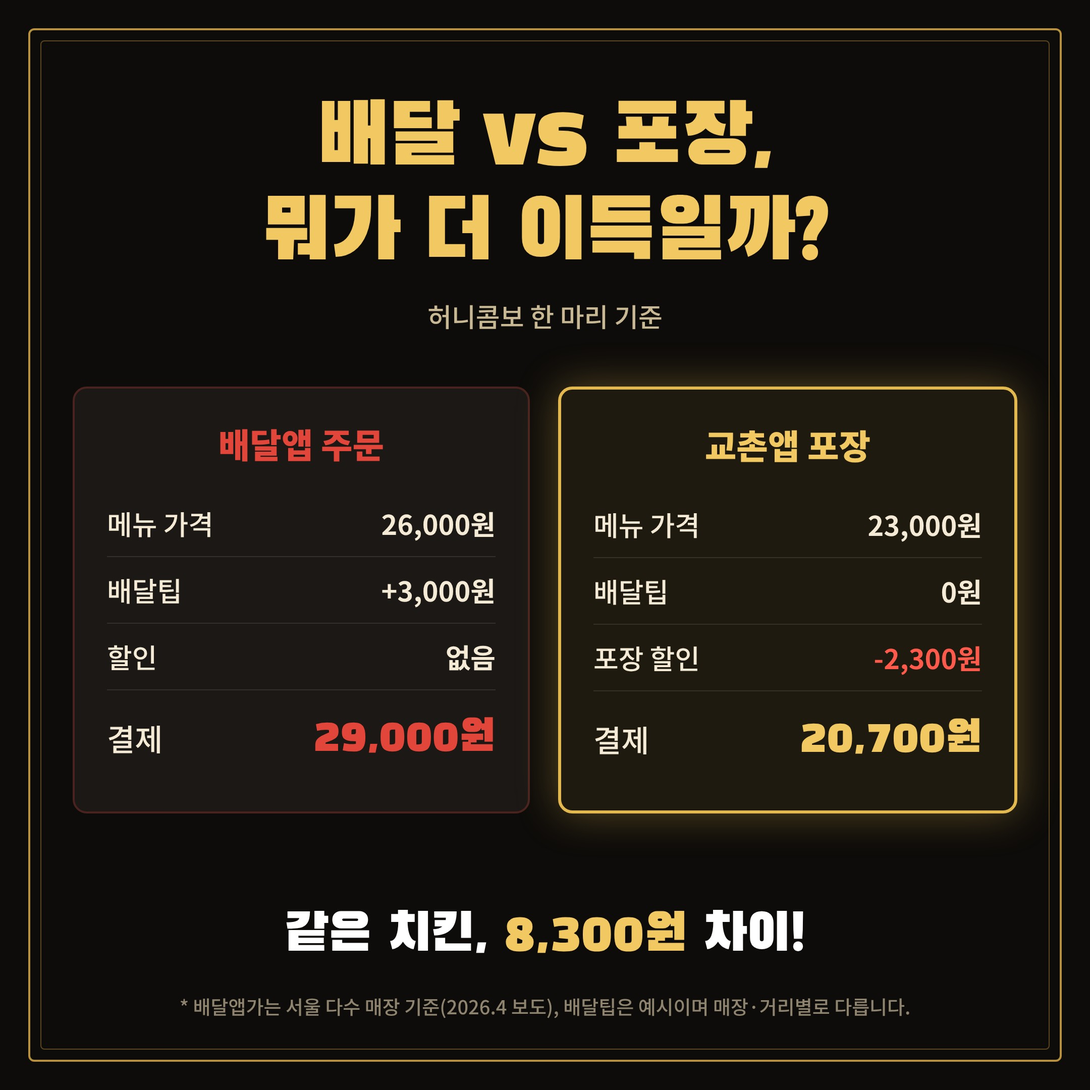
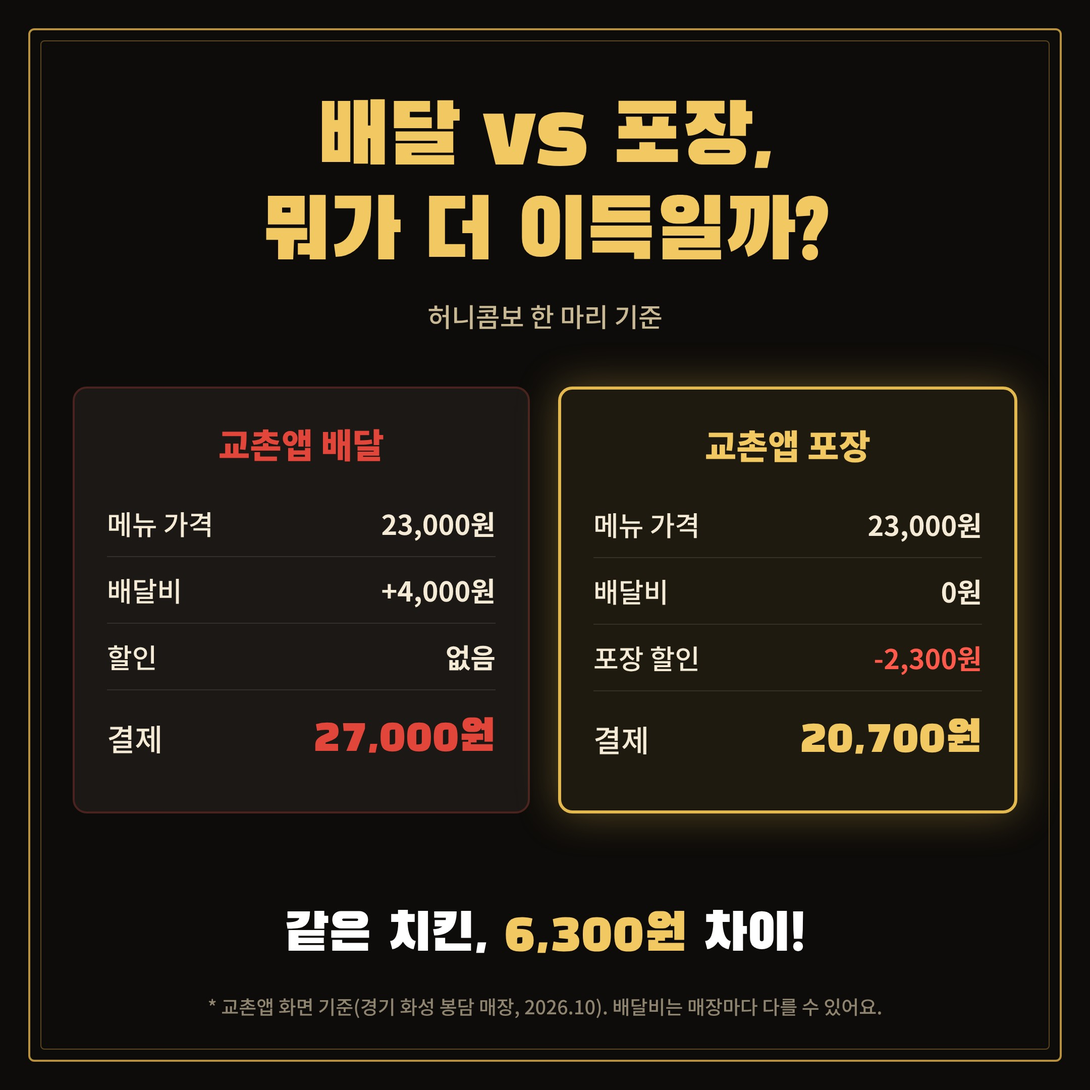
Use own app screenshots for Kyochon blog steps; drop pickup and extra photo sections
Claude-Session: https://claude.ai/code/session_01RbexRDzRrqEm3TgEDpLhhA

diff --git a/blog/kyochon/index.html b/blog/kyochon/index.html
@@ -32,6 +32,7 @@ b,strong{font-weight:700}
 .red{color:var(--red)}
 figure{margin:22px 0}
 figure img{display:block;width:100%;max-width:100%;border-radius:8px}
+figure.shot img{width:min(100%,360px);margin:0 auto;border:1px solid var(--line)}
 figcaption{font-size:13px;color:var(--muted);text-align:center;margin-top:6px}
 .slot{border:2px dashed var(--line);background:var(--slot);border-radius:8px;padding:28px 16px;text-align:center;color:var(--muted);font-size:14px}
 .slot b{display:block;color:var(--fg);font-size:15px;margin-bottom:2px}
@@ -57,7 +58,7 @@ ul.tips li::before{content:"✔";position:absolute;left:0;color:var(--gold);font
 </style>
 
 <div class="toolbar">
-  <span>네이버 블로그 붙여넣기용 미리보기 · 점선 칸은 직접 찍은 사진 자리</span>
+  <span>네이버 블로그 붙여넣기용 미리보기</span>
   <button type="button" id="copyBtn">본문 텍스트 복사</button>
 </div>
 
@@ -67,85 +68,76 @@ ul.tips li::before{content:"✔";position:absolute;left:0;color:var(--gold);font
 
 <figure><img src="images/thumbnail.jpg" alt="포장하면 10% 할인 썸네일"></figure>
 
-<p class="hook">배달앱에선 허니콤보 26,000원,<br>배달팁까지 붙으면 <span class="red">29,000원?</span> 😇</p>
-<p>솔직히 요즘 치킨 시킬 때마다 결제 화면에서 한 번씩 멈칫하게 되잖아요. 치킨값도 오르는데 배달팁까지 붙으면 "이 돈이면…" 소리가 절로 나오더라고요.</p>
-<p>그런데 혹시 알고 계셨나요? <span class="hl">교촌치킨 앱에서 '포장'만 누르면 배달팁은 0원, 거기에 10% 할인 쿠폰이 횟수 제한 없이</span> 적용된다는 사실! 🍗</p>
-<p>같은 허니콤보를 <b>20,700원</b>에 먹을 수 있는 방법, 오늘 직접 앱으로 주문하고 픽업까지 다녀온 후기로 처음부터 끝까지 정리해봤어요.</p>
+<p class="hook">치킨 한 마리 시키는데<br>배달비만 <span class="red">4,000원?</span> 😇</p>
+<p>솔직히 요즘 치킨 시킬 때마다 결제 화면에서 한 번씩 멈칫하게 되잖아요. 치킨값도 만만치 않은데 배달비까지 붙으면 "이 돈이면…" 소리가 절로 나오더라고요.</p>
+<p>그런데 혹시 알고 계셨나요? <span class="hl">교촌치킨 앱에서 '포장'만 누르면 배달비는 0원, 거기에 10% 할인 쿠폰까지</span> 적용된다는 사실! 🍗</p>
+<p>같은 허니콤보를 <b>27,000원 대신 20,700원</b>에 먹을 수 있는 방법, 제가 직접 앱 화면을 하나하나 캡처해서 처음부터 끝까지 정리해봤어요.</p>
 <p><b>👉 3분이면 누구나 따라 할 수 있으니까, 끝까지 읽고 오늘 저녁 치킨값 아껴가세요!</b></p>
-<div class="slot"><b>📸 배달앱 주문 화면 캡처</b>가격·배달팁에 빨간 동그라미</div>
 
 <h2>🤔 배달 vs 포장, 계산해보니 차이가 이 정도?</h2>
-<p>먼저 숫자로 비교해볼게요. 교촌 대표 메뉴 <b>허니콤보</b> 기준이에요.</p>
+<p>먼저 숫자로 비교해볼게요. 교촌 대표 메뉴 <b>허니콤보</b>를 교촌앱에서 주문한다고 했을 때예요.</p>
 <div class="tbl"><table>
-<thead><tr><th>구분</th><th>배달앱 주문</th><th>교촌앱 포장</th></tr></thead>
+<thead><tr><th>구분</th><th>교촌앱 배달</th><th>교촌앱 포장</th></tr></thead>
 <tbody>
-<tr><td>메뉴 가격</td><td class="num">26,000원</td><td class="num">23,000원</td></tr>
-<tr><td>배달팁</td><td class="num">3,000원 (예시)</td><td class="num"><b>0원</b></td></tr>
+<tr><td>메뉴 가격</td><td class="num">23,000원</td><td class="num">23,000원</td></tr>
+<tr><td>배달비</td><td class="num">4,000원</td><td class="num"><b>0원</b></td></tr>
 <tr><td>포장 할인</td><td class="num">없음</td><td class="num red"><b>-2,300원</b></td></tr>
-<tr class="total"><td>최종 결제</td><td class="num">29,000원</td><td class="num red">20,700원</td></tr>
+<tr class="total"><td>최종 결제</td><td class="num">27,000원</td><td class="num red">20,700원</td></tr>
 </tbody></table></div>
-<p>같은 치킨인데 <span class="hl">무려 8,300원 차이</span>! 😳 서울 지역 상당수 매장은 배달앱 가격이 26,000원이지만, 매장·교촌앱 포장 가격은 권장가 23,000원 그대로거든요. 여기에 10% 할인까지 더해지니 차이가 커질 수밖에요. 한 달에 네 번만 포장으로 바꿔도 <b>33,200원</b>이 그대로 남는 셈이에요.</p>
-<p class="note">※ 배달팁은 매장·거리마다 달라서 3,000원으로 예를 들었어요. 배달앱 가격도 지역·매장마다 다를 수 있어요.</p>
-<figure><img src="images/compare.jpg" alt="배달 vs 포장 비교표: 29,000원 대 20,700원"></figure>
+<p>같은 치킨인데 <span class="hl">무려 6,300원 차이</span>! 😳 배달비 4,000원이 빠지고, 10% 할인 2,300원이 더 빠지니까 차이가 꽤 크죠. 한 달에 네 번만 포장으로 바꿔도 <b>25,200원</b>이 그대로 남는 셈이에요. 치킨 한 마리 값이 더 생기는 거죠!</p>
+<p class="note">※ 제가 사는 동네(경기 화성 봉담) 매장의 교촌앱 화면 기준이에요. 배달비는 매장마다 다를 수 있어요.</p>
+<figure><img src="images/compare.jpg" alt="배달 vs 포장 비교표: 27,000원 대 20,700원"></figure>
 
 <h2>📱 할인 받는 법, 진짜 이게 끝이에요</h2>
-<p>"앱 주문 복잡하지 않아?" 하실 수 있는데, 전혀요! 캡처 화면에 순서대로 표시해뒀으니 그대로 따라 하시면 됩니다.</p>
+<p>"앱 주문 복잡하지 않아?" 하실 수 있는데, 전혀요! 제가 직접 캡처한 화면에 눌러야 할 곳을 빨간 박스로 표시해뒀으니 그대로 따라 하시면 됩니다.</p>
 
-<h3>STEP 1. 교촌치킨 앱 설치 &amp; 로그인</h3>
-<p>앱스토어나 플레이스토어에서 <b>'교촌치킨'</b> 검색 후 설치하고 회원가입해주세요. 포장 10% 할인은 <b>앱 회원 전용 혜택</b>이라 로그인이 꼭 필요해요.</p>
-<div class="slot"><b>📸 앱 메인 화면</b></div>
+<h3>STEP 1. 교촌치킨 앱 실행 → 하단 '주문' 버튼</h3>
+<p>교촌치킨 앱을 설치하고 로그인한 다음, 화면 아래 가운데 있는 <b>육각형 '주문' 버튼</b>을 눌러주세요. 포장 10% 할인은 <b>앱 회원 혜택</b>이라 로그인이 꼭 필요해요.</p>
+<figure class="shot"><img src="images/steps/step1_app_home.jpg" alt="교촌앱 홈 화면, 하단 주문 버튼 강조"></figure>
 
-<h3>STEP 2. 주문 방식에서 '포장' 선택 ⭐</h3>
-<p>여기가 제일 중요해요! 메인 화면에서 <span class="hl">'배달'이 아니라 '포장'</span>을 꼭 눌러주세요.</p>
-<div class="slot"><b>📸 포장 버튼</b>빨간 박스로 강조</div>
+<h3>STEP 2. '배달' 말고 '포장' 선택 ⭐</h3>
+<p>여기가 제일 중요해요! 주문 버튼을 누르면 '배달'과 '포장'이 뜨는데, <span class="hl">꼭 '포장'을 눌러주세요.</span></p>
+<figure class="shot"><img src="images/steps/step2_pickup.jpg" alt="배달과 포장 선택 화면, 포장 버튼 강조"></figure>
 
 <h3>STEP 3. 픽업할 매장 선택</h3>
-<p>현재 위치 기준으로 가까운 매장이 떠요. 퇴근길 동선에 있는 매장을 고르면 더 편해요.</p>
-<div class="slot"><b>📸 매장 선택 화면</b></div>
+<p>내 위치 기준으로 가까운 매장이 떠요. 여기서 보면 <b>배달비 4,000원</b>이라고 적혀 있죠? 포장을 고르면 이 금액이 그대로 0원이 돼요. 퇴근길 동선에 있는 매장의 '포장'을 눌러주세요.</p>
+<figure class="shot"><img src="images/steps/step3_store.jpg" alt="주변 매장 찾기 화면, 포장 버튼 강조"></figure>
 
 <h3>STEP 4. 메뉴 담기</h3>
-<p>고민할 것도 없이 교촌의 근본, <b>허니콤보</b>로 골랐어요. 😋</p>
-<div class="slot"><b>📸 메뉴 선택 화면</b></div>
+<p>고민할 것도 없이 교촌의 근본, <b>허니콤보</b>로 골랐어요. 😋 가격은 23,000원! 수량 확인하고 '장바구니 담기'를 눌러주세요.</p>
+<figure class="shot"><img src="images/steps/step4_menu.jpg" alt="허니콤보 메뉴 상세, 23,000원"></figure>
 
-<h3>STEP 5. 결제 화면에서 10% 할인 쿠폰 적용 ✅</h3>
-<p>포장 주문을 하면 <b>포장 10% 할인 쿠폰이 자동으로 발급</b>돼요. 결제 화면에서 쿠폰만 적용하면 끝! 23,000원에서 <b>2,300원</b>이 빠져서 최종 <span class="hl">20,700원</span>에 결제했어요. 쿠폰은 주문 1건당 1장씩, 횟수 제한 없이 포장할 때마다 쓸 수 있어요.</p>
-<div class="slot"><b>📸 결제 화면</b>할인 금액 확대 + 빨간 박스</div>
+<h3>STEP 5. 결제할 때 '포장 10% 할인' 쿠폰 적용 ✅</h3>
+<p>결제 화면에서 쿠폰을 누르면 <b>'포장 10% 할인'</b> 쿠폰이 보여요. 체크하고 '선택적용'만 누르면 끝! 허니콤보 23,000원에서 <b>2,300원</b>이 빠져서 <span class="hl">20,700원</span>이 돼요.</p>
+<figure class="shot"><img src="images/steps/step5_coupon.jpg" alt="쿠폰 선택 화면, 포장 10% 할인 쿠폰 강조"></figure>
+<p class="note">※ 쿠폰 조건: 16,000원 이상 주문 시 사용 가능, 2026년 12월 31일까지. 단품 메뉴에만 적용되고 세트 메뉴는 제외돼요.</p>
 
-<h3>STEP 6. 픽업 시간 확인하고 출발!</h3>
-<p>주문 완료 후 예상 조리 시간이 안내돼요. 저는 약 [○○]분 뒤에 맞춰서 출발했어요.</p>
-<div class="slot"><b>📸 주문 완료 화면</b></div>
-
-<h2>🏃 매장 픽업 후기</h2>
-<p>[○○점]에 도착하니 주문 번호만 말하면 바로 받을 수 있게 준비돼 있었어요. 기다림 없이 <b>"교촌 포장이요~"</b> 한마디로 끝!</p>
-<div class="slot"><b>📸 매장 외관 / 픽업대</b></div>
-
-<h2>🍗 갓 튀긴 치킨은 차원이 다릅니다</h2>
-<p>집에 오자마자 바로 오픈! 박스를 여는 순간 달콤한 허니 향이 확 퍼지는데… 이게 바로 포장의 진짜 매력이더라고요.</p>
+<h2>🍗 교촌은 역시 허니콤보</h2>
 <figure><img src="images/chicken_web.jpg" alt="박스에 가득 담긴 교촌 허니콤보"><figcaption>박스 가득 허니콤보 🍯</figcaption></figure>
-<p><b>허니콤보</b>는 겉은 바삭하고, 달콤짭짤한 허니소스가 한 겹 한 겹 배어 있어서 한 입 베어 물면 <span class="hl">'바삭' 소리부터 다르게</span> 느껴졌어요. 배달로 받을 때보다 눅눅함이 훨씬 덜해서 마지막 한 조각까지 바삭함이 유지됐어요. 단짠 조합이라 콜라 한 모금이면 무한 루프… 🔁</p>
-<div class="slot"><b>📸 단면 / 소스 클로즈업</b></div>
-<div class="slot" style="margin-top:12px"><b>📸 먹는 장면 or 한 상 차림</b></div>
+<p>박스를 여는 순간 달콤한 허니 향이 확 퍼지는데, 이 맛에 교촌 먹는 거죠. <b>허니콤보</b>는 쫄깃한 날개와 담백한 다리 조합이라 부위 고민할 필요가 없어요.</p>
+<p>겉은 바삭하고, 달콤짭짤한 허니소스가 얇게 코팅돼 있어서 한 입 베어 물면 <span class="hl">'바삭' 소리부터 달라요.</span> 소스가 과하지 않아서 끝까지 물리지 않고, 단짠 조합이라 콜라 한 모금이면 무한 루프… 🔁 포장해서 갓 튀긴 걸 바로 먹으면 이 바삭함이 훨씬 오래가요.</p>
 
 <h2>🎬 글로 보기 귀찮다면? 30초 영상으로 끝내드림 👇</h2>
-<p>주문부터 픽업, 먹방까지 숏츠로도 담아봤어요! 영상으로 보면 바삭함이 더 실감나실 거예요 😆</p>
+<p>할인 받는 법부터 허니콤보까지 숏츠로도 담아봤어요! 영상으로 보면 바삭함이 더 실감나실 거예요 😆</p>
 <div class="slot"><b>🎬 인스타그램 릴스 링크 삽입</b></div>
 
 <h2>💡 알아두면 더 이득인 꿀팁</h2>
 <ul class="tips">
 <li><b>피크 시간(저녁 6~8시)엔 미리 주문!</b> 도착 시간에 맞춰 주문하면 대기 없이 바로 픽업 가능해요.</li>
 <li><b>퇴근길 동선에 있는 매장을 즐겨찾기</b>해두면 다음 주문이 훨씬 빨라져요.</li>
-<li><b>쿠폰은 횟수 제한 없음!</b> 포장할 때마다 자동 발급되니 결제 전에 적용만 잊지 마세요.</li>
+<li><b>16,000원 이상 단품 주문</b>이어야 쿠폰이 적용돼요. 세트 메뉴는 제외라 단품으로 담는 게 이득!</li>
+<li><b>결제 전 쿠폰 적용 필수!</b> 자동으로 빠지는 게 아니라 결제할 때 직접 선택해야 해요.</li>
 </ul>
 
 <h2>✍ 총평</h2>
 <div class="tbl"><table>
 <tbody>
-<tr><td>가격 혜택</td><td>⭐⭐⭐⭐⭐ 배달팁 0원 + 10% 할인</td></tr>
+<tr><td>가격 혜택</td><td>⭐⭐⭐⭐⭐ 배달비 0원 + 10% 할인</td></tr>
 <tr><td>주문 편의성</td><td>⭐⭐⭐⭐⭐ 3분이면 끝</td></tr>
 <tr><td>맛</td><td>⭐⭐⭐⭐⭐ 갓 튀긴 바삭함 그대로</td></tr>
 <tr><td>재주문 의사</td><td>💯 무조건</td></tr>
 </tbody></table></div>
-<p>배달팁 아끼고, 할인 받고, 제일 맛있을 때 바로 먹을 수 있는 방법. 한 번 해보니까 왜 이제야 알았나 싶더라고요.</p>
+<p>배달비 아끼고, 할인 받고, 제일 맛있을 때 바로 먹을 수 있는 방법. 한 번 해보니까 왜 이제야 알았나 싶더라고요.</p>
 <p class="cta">오늘 저녁 치킨은, 배달 말고 포장으로 10% 아끼세요! 🍗</p>
 
 <section class="promo">
@@ -166,7 +158,7 @@ ul.tips li::before{content:"✔";position:absolute;left:0;color:var(--gold);font
 <p class="tags">#교촌치킨 #교촌포장할인 #교촌앱 #교촌치킨할인 #치킨포장할인 #치킨할인 #포장주문 #허니콤보 #교촌K스피커스 #K스피커스13기 #교촌서포터즈</p>
 </article>
 
-<p class="src toolbar">금액 출처: <a href="https://zdnet.co.kr/view/?no=20260203112434">교촌 포장 10% 할인(ZDNet, 2026.2)</a> · <a href="https://v.daum.net/v/20260409165437122">허니콤보 가격(2026.4)</a> · <a href="https://zdnet.co.kr/view/?no=20261020174452">K-스피커스 13기(ZDNet, 2026.10)</a></p>
+<p class="src toolbar">출처: 교촌앱 화면(2026.10) · <a href="https://zdnet.co.kr/view/?no=20260203112434">교촌 포장 10% 할인(ZDNet, 2026.2)</a> · <a href="https://zdnet.co.kr/view/?no=20261020174452">K-스피커스 13기(ZDNet, 2026.10)</a></p>
 
 <script>
 document.getElementById('copyBtn').addEventListener('click', async (e) => {

diff --git a/blog/kyochon/src/compare.html b/blog/kyochon/src/compare.html
@@ -27,18 +27,18 @@ h1{font-family:'Black Han Sans',sans-serif;font-weight:400;font-size:84px;line-h
 <h1>배달 vs 포장,<br>뭐가 더 이득일까?</h1>
 <p class="sub">허니콤보 한 마리 기준</p>
 <div class="cols">
- <div class="col d"><h2>배달앱 주문</h2>
-  <div class="row"><span>메뉴 가격</span><span>26,000원</span></div>
-  <div class="row"><span>배달팁</span><span>+3,000원</span></div>
+ <div class="col d"><h2>교촌앱 배달</h2>
+  <div class="row"><span>메뉴 가격</span><span>23,000원</span></div>
+  <div class="row"><span>배달비</span><span>+4,000원</span></div>
   <div class="row"><span>할인</span><span>없음</span></div>
-  <div class="row tot"><span>결제</span><span>29,000원</span></div>
+  <div class="row tot"><span>결제</span><span>27,000원</span></div>
  </div>
  <div class="col p"><h2>교촌앱 포장</h2>
   <div class="row"><span>메뉴 가격</span><span>23,000원</span></div>
-  <div class="row"><span>배달팁</span><span>0원</span></div>
+  <div class="row"><span>배달비</span><span>0원</span></div>
   <div class="row"><span>포장 할인</span><span class="hl">-2,300원</span></div>
   <div class="row tot"><span>결제</span><span>20,700원</span></div>
  </div>
 </div>
-<div class="bottom">같은 치킨, <b>8,300원</b> 차이!</div>
-<p class="note">* 배달앱가는 서울 다수 매장 기준(2026.4 보도), 배달팁은 예시이며 매장·거리별로 다릅니다.</p>
+<div class="bottom">같은 치킨, <b>6,300원</b> 차이!</div>
+<p class="note">* 교촌앱 화면 기준(경기 화성 봉담 매장, 2026.10). 배달비는 매장마다 다를 수 있어요.</p>

diff --git a/blog/kyochon/src/annotate.py b/blog/kyochon/src/annotate.py
@@ -1,0 +1,19 @@
+# 앱 캡처에 빨간 강조 박스를 그려 블로그용 STEP 이미지로 저장
+import sys
+from PIL import Image, ImageDraw
+SRC = sys.argv[1]
+RED = (226, 35, 26)
+boxes = {  # 파일번호: (출력이름, [(x1,y1,x2,y2), ...])
+    '2': ('step1_app_home.jpg', [(440, 1730, 593, 1900)]),
+    '3': ('step2_pickup.jpg',   [(538, 1540, 727, 1720)]),
+    '4': ('step3_store.jpg',    [(278, 638, 455, 718)]),
+    '6': ('step4_menu.jpg',     [(30, 1040, 830, 1255), (40, 1755, 935, 1875)]),
+    '5': ('step5_coupon.jpg',   [(42, 465, 980, 825)]),
+}
+for n, (out, rects) in boxes.items():
+    im = Image.open(f'{SRC}/{n}.jpg').convert('RGB')
+    d = ImageDraw.Draw(im)
+    for r in rects:
+        d.rounded_rectangle(r, radius=22, outline=RED, width=9)
+    im.save(f'images/steps/{out}', quality=90)
+    print(out)

diff --git a/교촌_블로그_본문초안.md b/교촌_블로그_본문초안.md
@@ -1,7 +1,7 @@
 # [제목] 아직도 치킨 배달시켜요? 교촌 포장하면 10% 할인인데요｜교촌앱 포장 주문 솔직 후기
 
-> 📌 금액은 2026년 보도 기준으로 채웠어요. [ ] 표시는 직접 다녀온 뒤 채울 개인 경험(매장명·시간)이에요.
-> 출처: 교촌 포장 10% 할인(ZDNet 2026.2.3), 허니콤보 가격(연합뉴스TV 2026.4.9), K-스피커스 13기(ZDNet 2026.10.20)
+> 📌 금액·쿠폰 조건은 직접 캡처한 교촌앱 화면(2026.10) 기준이에요.
+> 출처: 교촌앱 화면, K-스피커스 13기(ZDNet 2026.10.20)
 
 ---
 
@@ -9,114 +9,96 @@
 
 ---
 
-**배달앱에선 허니콤보 26,000원, 배달팁까지 붙으면 29,000원?** 😇
+**치킨 한 마리 시키는데, 배달비만 4,000원?** 😇
 
 솔직히 요즘 치킨 시킬 때마다 결제 화면에서 한 번씩 멈칫하게 되잖아요.
-치킨값도 오르는데 배달팁까지 붙으면 "이 돈이면…" 소리가 절로 나오더라고요.
+치킨값도 만만치 않은데 배달비까지 붙으면 "이 돈이면…" 소리가 절로 나오더라고요.
 
 그런데 혹시 알고 계셨나요?
-**교촌치킨 앱에서 '포장'만 누르면 배달팁은 0원, 거기에 10% 할인 쿠폰이 횟수 제한 없이** 적용된다는 사실! 🍗
+**교촌치킨 앱에서 '포장'만 누르면 배달비는 0원, 거기에 10% 할인 쿠폰까지** 적용된다는 사실! 🍗
 
-같은 허니콤보를 **20,700원**에 먹을 수 있는 방법,
-오늘 직접 앱으로 주문하고 픽업까지 다녀온 후기로 **처음부터 끝까지** 정리해봤어요.
+같은 허니콤보를 **27,000원 대신 20,700원**에 먹을 수 있는 방법,
+제가 직접 앱 화면을 하나하나 캡처해서 처음부터 끝까지 정리해봤어요.
 
 👉 **3분이면 누구나 따라 할 수 있으니까, 끝까지 읽고 오늘 저녁 치킨값 아껴가세요!**
-
-📸 **[이미지 2: 배달앱 주문 화면 캡처 - 가격·배달팁에 빨간 동그라미]**
 
 ---
 
 ## 🤔 배달 vs 포장, 계산해보니 차이가 이 정도?
 
-먼저 숫자로 비교해볼게요. 교촌 대표 메뉴 **허니콤보** 기준이에요.
+먼저 숫자로 비교해볼게요. 교촌 대표 메뉴 **허니콤보**를 교촌앱에서 주문한다고 했을 때예요.
 
-| 구분 | 배달앱 주문 | 포장 주문 (교촌앱) |
+| 구분 | 교촌앱 배달 | 교촌앱 포장 |
 |---|---|---|
-| 메뉴 가격 | 26,000원 | 23,000원 |
-| 배달팁 | 3,000원 (예시) | **0원** |
-| 포장 할인 | 없음 | **-10% (2,300원)** |
-| **최종 결제** | **29,000원** | **20,700원** |
+| 메뉴 가격 | 23,000원 | 23,000원 |
+| 배달비 | 4,000원 | **0원** |
+| 포장 할인 | 없음 | **-2,300원** |
+| **최종 결제** | **27,000원** | **20,700원** |
 
-같은 치킨인데 **무려 8,300원 차이**! 😳
-서울 지역 상당수 매장은 배달앱 가격이 26,000원이지만, **매장·교촌앱 포장 가격은 권장가 23,000원 그대로**거든요.
-여기에 10% 할인까지 더해지니 차이가 커질 수밖에요.
-한 달에 네 번만 포장으로 바꿔도 **33,200원**이 그대로 남는 셈이에요.
+같은 치킨인데 **무려 6,300원 차이**! 😳
+배달비 4,000원이 빠지고, 10% 할인 2,300원이 더 빠지니까 차이가 꽤 크죠.
+한 달에 네 번만 포장으로 바꿔도 **25,200원**이 그대로 남는 셈이에요. 치킨 한 마리 값이 더 생기는 거죠!
 
-※ 배달팁은 매장·거리마다 달라서 3,000원으로 예를 들었어요. 배달앱 가격도 지역·매장마다 다를 수 있어요.
+※ 제가 사는 동네(경기 화성 봉담) 매장의 교촌앱 화면 기준이에요. 배달비는 매장마다 다를 수 있어요.
 
-📸 **[이미지 3: 배달 vs 포장 비교표 - images/compare.jpg]**
+📸 **[이미지 2: 비교표 - images/compare.jpg]**
 
 ---
 
 ## 📱 할인 받는 법, 진짜 이게 끝이에요
 
 "앱 주문 복잡하지 않아?" 하실 수 있는데, 전혀요!
-캡처 화면에 순서대로 표시해뒀으니 그대로 따라 하시면 됩니다.
+제가 직접 캡처한 화면에 눌러야 할 곳을 빨간 박스로 표시해뒀으니 그대로 따라 하시면 됩니다.
 
-### STEP 1. 교촌치킨 앱 설치 & 로그인
-앱스토어나 플레이스토어에서 **'교촌치킨'** 검색 후 설치하고 회원가입해주세요.
-포장 10% 할인은 **앱 회원 전용 혜택**이라 로그인이 꼭 필요해요.
+### STEP 1. 교촌치킨 앱 실행 → 하단 '주문' 버튼
+교촌치킨 앱을 설치하고 로그인한 다음, 화면 아래 가운데 있는 **육각형 '주문' 버튼**을 눌러주세요.
+포장 10% 할인은 **앱 회원 혜택**이라 로그인이 꼭 필요해요.
 
-📸 **[이미지 4: 앱 메인 화면]**
+📸 **[images/steps/step1_app_home.jpg]**
 
-### STEP 2. 주문 방식에서 '포장' 선택 ⭐
-여기가 제일 중요해요! 메인 화면에서 **'배달'이 아니라 '포장'**을 꼭 눌러주세요.
+### STEP 2. '배달' 말고 '포장' 선택 ⭐
+여기가 제일 중요해요! 주문 버튼을 누르면 '배달'과 '포장'이 뜨는데, **꼭 '포장'을 눌러주세요.**
 
-📸 **[이미지 5: 포장 버튼 - 빨간 박스 강조]**
+📸 **[images/steps/step2_pickup.jpg]**
 
 ### STEP 3. 픽업할 매장 선택
-현재 위치 기준으로 가까운 매장이 떠요. 퇴근길 동선에 있는 매장을 고르면 더 편해요.
+내 위치 기준으로 가까운 매장이 떠요. 여기서 보면 **배달비 4,000원**이라고 적혀 있죠?
+포장을 고르면 이 금액이 그대로 0원이 돼요. 퇴근길 동선에 있는 매장의 '포장'을 눌러주세요.
 
-📸 **[이미지 6: 매장 선택 화면]**
+📸 **[images/steps/step3_store.jpg]**
 
 ### STEP 4. 메뉴 담기
-고민할 것도 없이 교촌의 근본, **허니콤보**로 골랐어요. 😋
+고민할 것도 없이 교촌의 근본, **허니콤보**로 골랐어요. 😋 가격은 23,000원!
+수량 확인하고 '장바구니 담기'를 눌러주세요.
 
-📸 **[이미지 7: 메뉴 선택 화면]**
+📸 **[images/steps/step4_menu.jpg]**
 
-### STEP 5. 결제 화면에서 10% 할인 쿠폰 적용 ✅
-포장 주문을 하면 **포장 10% 할인 쿠폰이 자동으로 발급**돼요. 결제 화면에서 쿠폰만 적용하면 끝!
-23,000원에서 **2,300원**이 빠져서 최종 **20,700원**에 결제했어요.
-쿠폰은 주문 1건당 1장씩, **횟수 제한 없이** 포장할 때마다 쓸 수 있어요.
+### STEP 5. 결제할 때 '포장 10% 할인' 쿠폰 적용 ✅
+결제 화면에서 쿠폰을 누르면 **'포장 10% 할인'** 쿠폰이 보여요. 체크하고 '선택적용'만 누르면 끝!
+허니콤보 23,000원에서 **2,300원**이 빠져서 **20,700원**이 돼요.
 
-📸 **[이미지 8: 결제 화면 - 할인 금액 확대 + 빨간 박스]**
+📸 **[images/steps/step5_coupon.jpg]**
 
-### STEP 6. 픽업 시간 확인하고 출발!
-주문 완료 후 예상 조리 시간이 안내돼요. 저는 **약 [○○]분** 뒤에 맞춰서 출발했어요.
-
-📸 **[이미지 9: 주문 완료 화면]**
+※ 쿠폰 조건: 16,000원 이상 주문 시 사용 가능, 2026년 12월 31일까지. 단품 메뉴에만 적용되고 세트 메뉴는 제외돼요.
 
 ---
 
-## 🏃 매장 픽업 후기
+## 🍗 교촌은 역시 허니콤보
 
-**[○○점]**에 도착하니 주문 번호만 말하면 바로 받을 수 있게 준비돼 있었어요.
-기다림 없이 **"교촌 포장이요~"** 한마디로 끝!
+📸 **[images/chicken_web.jpg - 직접 찍은 허니콤보 사진]**
 
-📸 **[이미지 10: 매장 외관 / 픽업대]**
+박스를 여는 순간 달콤한 허니 향이 확 퍼지는데, 이 맛에 교촌 먹는 거죠.
+**허니콤보**는 쫄깃한 날개와 담백한 다리 조합이라 부위 고민할 필요가 없어요.
 
----
-
-## 🍗 갓 튀긴 치킨은 차원이 다릅니다
-
-집에 오자마자 바로 오픈! 박스를 여는 순간 달콤한 허니 향이 확 퍼지는데…
-이게 바로 포장의 진짜 매력이더라고요.
-
-📸 **[이미지 11: 박스 개봉 - 위에서 내려다본 컷]**
-
-**허니콤보**는 겉은 바삭하고, 달콤짭짤한 허니소스가 한 겹 한 겹 배어 있어서
-한 입 베어 물면 **'바삭' 소리부터 다르게** 느껴졌어요.
-배달로 받을 때보다 눅눅함이 훨씬 덜해서 마지막 한 조각까지 바삭함이 유지됐어요.
-단짠 조합이라 콜라 한 모금이면 무한 루프… 🔁
-
-📸 **[이미지 12: 단면 / 소스 클로즈업]**
-📸 **[이미지 13: 먹는 장면 or 한 상 차림]**
+겉은 바삭하고, 달콤짭짤한 허니소스가 얇게 코팅돼 있어서 한 입 베어 물면 **'바삭' 소리부터 달라요.**
+소스가 과하지 않아서 끝까지 물리지 않고, 단짠 조합이라 콜라 한 모금이면 무한 루프… 🔁
+포장해서 갓 튀긴 걸 바로 먹으면 이 바삭함이 훨씬 오래가요.
 
 ---
 
 ## 🎬 글로 보기 귀찮다면? 30초 영상으로 끝내드림 👇
 
-주문부터 픽업, 먹방까지 숏츠로도 담아봤어요!
+할인 받는 법부터 허니콤보까지 숏츠로도 담아봤어요!
 영상으로 보면 바삭함이 더 실감나실 거예요 😆
 
 **[인스타그램 릴스 임베드 / 링크 삽입]**
@@ -127,7 +109,8 @@
 
 ✔ **피크 시간(저녁 6~8시)엔 미리 주문!** 도착 시간에 맞춰 주문하면 대기 없이 바로 픽업 가능해요.
 ✔ **퇴근길 동선에 있는 매장을 즐겨찾기**해두면 다음 주문이 훨씬 빨라져요.
-✔ **쿠폰은 횟수 제한 없음!** 포장할 때마다 자동 발급되니 결제 전에 적용만 잊지 마세요.
+✔ **16,000원 이상 단품 주문**이어야 쿠폰이 적용돼요. 세트 메뉴는 제외라 단품으로 담는 게 이득!
+✔ **결제 전 쿠폰 적용 필수!** 자동으로 빠지는 게 아니라 결제할 때 직접 선택해야 해요.
 
 ---
 
@@ -135,12 +118,12 @@
 
 | 항목 | 평가 |
 |---|---|
-| 가격 혜택 | ⭐⭐⭐⭐⭐ 배달팁 0원 + 10% 할인 |
+| 가격 혜택 | ⭐⭐⭐⭐⭐ 배달비 0원 + 10% 할인 |
 | 주문 편의성 | ⭐⭐⭐⭐⭐ 3분이면 끝 |
 | 맛 | ⭐⭐⭐⭐⭐ 갓 튀긴 바삭함 그대로 |
 | 재주문 의사 | 💯 무조건 |
 
-배달팁 아끼고, 할인 받고, 제일 맛있을 때 바로 먹을 수 있는 방법.
+배달비 아끼고, 할인 받고, 제일 맛있을 때 바로 먹을 수 있는 방법.
 한 번 해보니까 왜 이제야 알았나 싶더라고요.
 
 **오늘 저녁 치킨은, 배달 말고 포장으로 10% 아끼세요!** 🍗
